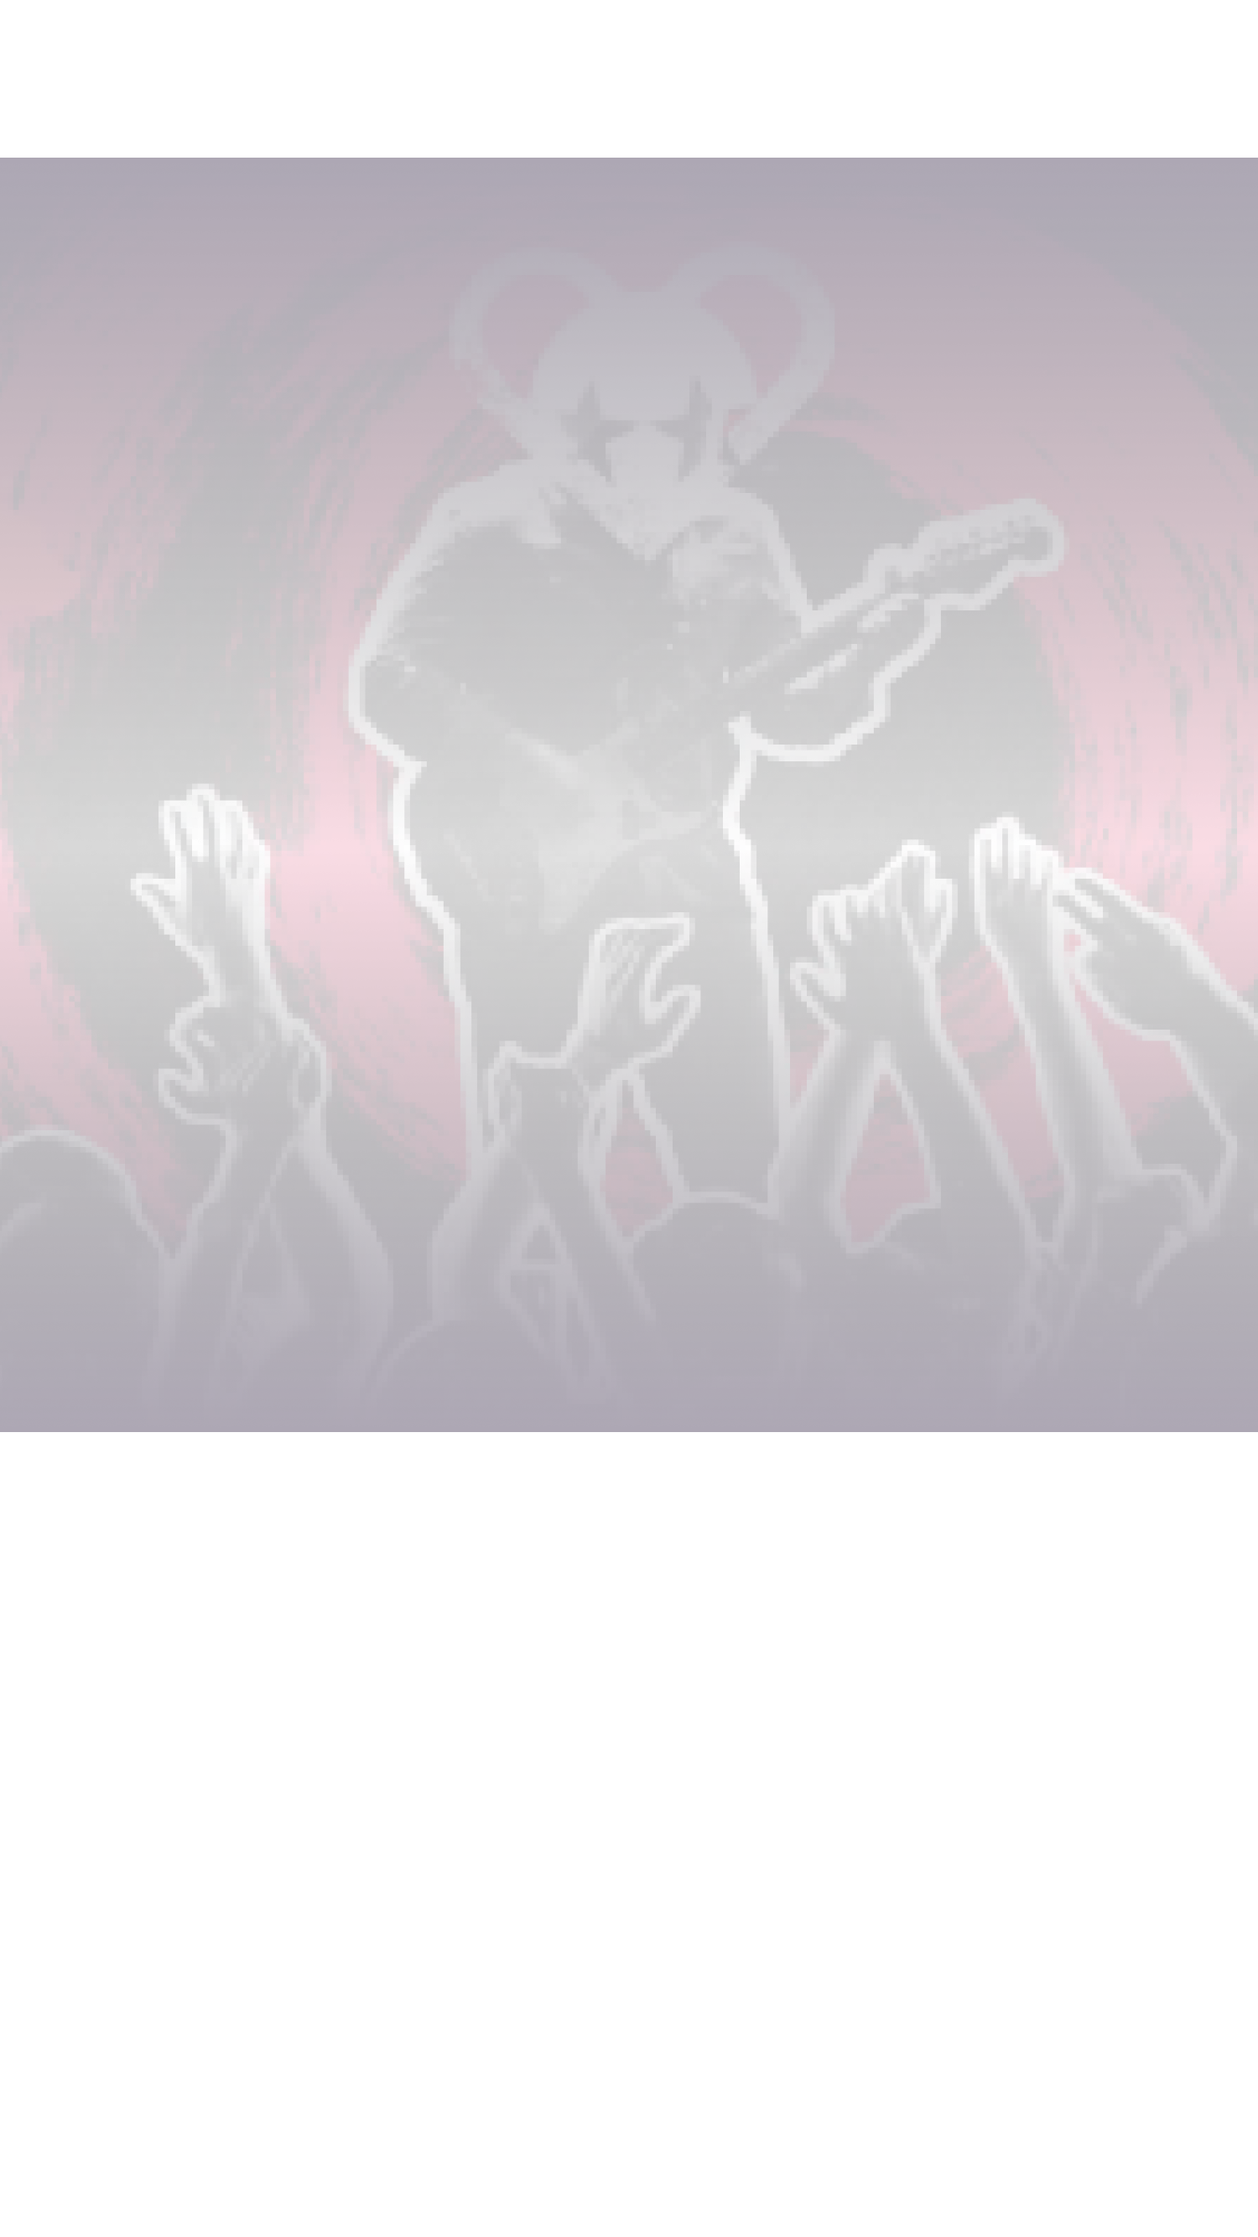
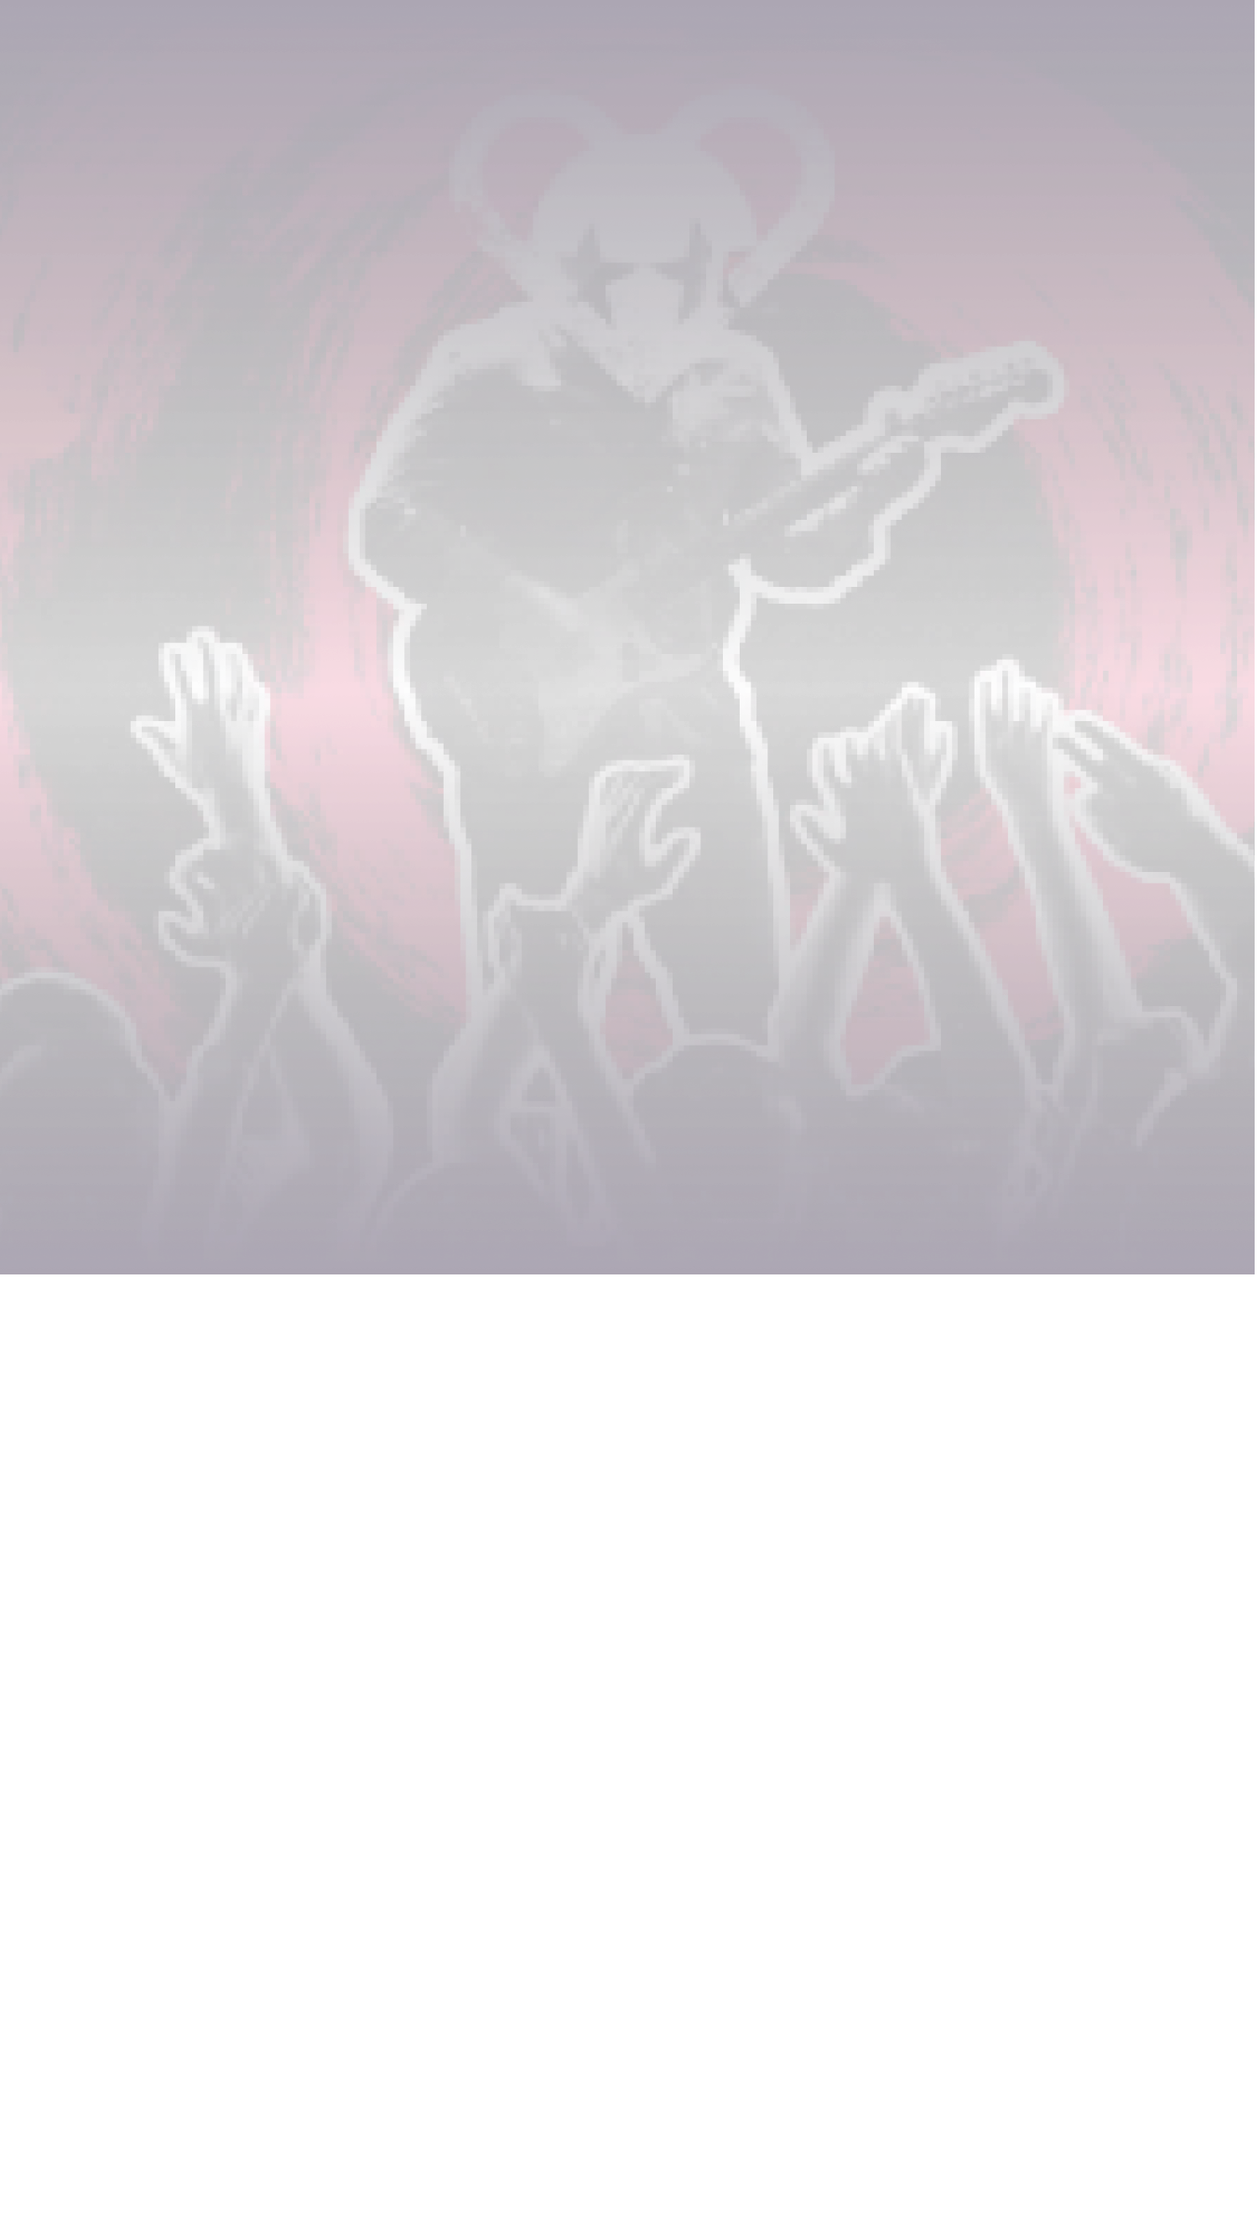
fixes

diff --git a/lib/views/pages/start/create_user_page.dart b/lib/views/pages/start/create_user_page.dart
@@ -39,6 +39,7 @@ class CreateUserPageState extends State<CreateUserPage> {
   FocusNode passwordNode = FocusNode();
   FocusNode passwordConfirmNode = FocusNode();
   FocusNode userNameNode = FocusNode();
+  FocusNode codeNode = FocusNode();
 
   String email;
   String password;
@@ -177,7 +178,7 @@ class CreateUserPageState extends State<CreateUserPage> {
               ),
               image: DecorationImage(
                 image: AssetImage('assets/images/start/signup_bg.png'),
-                fit: BoxFit.cover,
+                fit: BoxFit.fitHeight,
               )
             ),  
             child: Container(
@@ -223,8 +224,8 @@ class CreateUserPageState extends State<CreateUserPage> {
                         Container(
                           alignment: Alignment.topCenter,
                           child: Container(
-                            width: 140.0,
-                            height: 140.0, 
+                            width: 120.0,
+                            height: 120.0, 
                             decoration: BoxDecoration(
                               shape: BoxShape.circle,
                               image: DecorationImage(
@@ -235,9 +236,9 @@ class CreateUserPageState extends State<CreateUserPage> {
                           ),
                         ),
                         Container(
-                          height: 140.0,
+                          height: 120.0,
                           alignment: Alignment.bottomCenter,
-                          margin: EdgeInsets.only(left: 100.0),
+                          margin: EdgeInsets.only(left: 85.0),
                           child: IconButton(
                             onPressed: onImageSelect,
                             icon: Container(
@@ -268,7 +269,7 @@ class CreateUserPageState extends State<CreateUserPage> {
                               ),
                               decoration: InputDecoration(
                                 hintStyle: TextStyle(
-                                  color: Colors.white.withOpacity(0.5),
+                                  color: AppColors.orangeText,
                                   fontSize: 18.0,
                                   fontWeight: FontWeight.w500
                                 ),
@@ -302,7 +303,7 @@ class CreateUserPageState extends State<CreateUserPage> {
                               ),
                               decoration: InputDecoration(
                                 hintStyle: TextStyle(
-                                  color: Colors.white.withOpacity(0.5),
+                                  color: AppColors.orangeText,
                                   fontSize: 18.0,
                                   fontWeight: FontWeight.w500
                                 ),
@@ -333,7 +334,7 @@ class CreateUserPageState extends State<CreateUserPage> {
                               ),
                               decoration: InputDecoration(
                                 hintStyle: TextStyle(
-                                  color: Colors.white.withOpacity(0.5),
+                                  color: AppColors.orangeText,
                                   fontSize: 18.0,
                                   fontWeight: FontWeight.w500
                                 ),
@@ -363,7 +364,7 @@ class CreateUserPageState extends State<CreateUserPage> {
                               ),
                               decoration: InputDecoration(
                                 hintStyle: TextStyle(
-                                  color: Colors.white.withOpacity(0.5),
+                                  color: AppColors.orangeText,
                                   fontSize: 18.0,
                                   fontWeight: FontWeight.w500
                                 ),
@@ -393,7 +394,7 @@ class CreateUserPageState extends State<CreateUserPage> {
                               ),
                               decoration: InputDecoration(
                                 hintStyle: TextStyle(
-                                  color: Colors.white.withOpacity(0.5),
+                                  color: AppColors.orangeText,
                                   fontSize: 18.0,
                                   fontWeight: FontWeight.w500
                                 ),
@@ -423,7 +424,7 @@ class CreateUserPageState extends State<CreateUserPage> {
                               ),
                               decoration: InputDecoration(
                                 hintStyle: TextStyle(
-                                  color: Colors.white.withOpacity(0.5),
+                                  color: AppColors.orangeText,
                                   fontSize: 18.0,
                                   fontWeight: FontWeight.w500
                                 ),
@@ -440,14 +441,37 @@ class CreateUserPageState extends State<CreateUserPage> {
                               },
                               validator: validateName,
                             ),
-                            Padding(padding: EdgeInsets.only(top: 40.0)),
+                            Padding(padding: EdgeInsets.only(top: 15.0)),
+                            TextFormField(
+                              focusNode: codeNode,
+                              style: TextStyle(
+                                color: Colors.white,
+                                fontSize: 18.0,
+                                fontWeight: FontWeight.w500
+                              ),
+                              decoration: InputDecoration(
+                                hintStyle: TextStyle(
+                                  color: Colors.white.withOpacity(0.5),
+                                  fontSize: 18.0,
+                                  fontWeight: FontWeight.w500
+                                ),
+                                focusedBorder: UnderlineInputBorder(      
+                                  borderSide: BorderSide(color: Colors.white, width: 1.7),   
+                                ),
+                                enabledBorder: UnderlineInputBorder(      
+                                  borderSide: BorderSide(color: Colors.white.withOpacity(0.5)),   
+                                ),   
+                                hintText: Translations.referralCode
+                              ),
+                            ),
+                            Padding(padding: EdgeInsets.only(top: 30.0)),
                             Container(
                               child: Column(
                                 mainAxisAlignment: MainAxisAlignment.spaceBetween,
                                 children: <Widget>[
                                   Container(
                                     height: 50.0,
-                                    child: MainButton(Translations.continuew.toUpperCase(),
+                                    child: MainButton(Translations.createAccount.toUpperCase(),
                                       onTap: onContinue
                                     )
                                   ),

diff --git a/lib/views/pages/start/forgot_password_page.dart b/lib/views/pages/start/forgot_password_page.dart
@@ -6,6 +6,8 @@ import 'check_email_page.dart';
 import '../../routes/default_page_route.dart';
 import '../../widgets/main_button.dart';
 
+import '../../../helpers/storage/data_provider.dart';
+
 import '../../../resources/app_colors.dart';
 import '../../../resources/translations.dart';
 
@@ -16,6 +18,9 @@ class ForgotPasswordPage extends StatefulWidget {
 }
 
 class ForgotPasswordPageState extends State<ForgotPasswordPage> {
+  GlobalKey<FormState> formKey = GlobalKey<FormState>();
+
+  String email;
 
   @override
   void initState() {    
@@ -90,6 +95,7 @@ class ForgotPasswordPageState extends State<ForgotPasswordPage> {
                       )
                     ),
                     Form(
+                      key: formKey,
                       child: Container(
                         margin: EdgeInsets.only(left: 30.0, right: 30.0, top: 50.0),
                         child: Column(
@@ -124,8 +130,13 @@ class ForgotPasswordPageState extends State<ForgotPasswordPage> {
                                 enabledBorder: UnderlineInputBorder(      
                                   borderSide: BorderSide(color: Colors.white.withOpacity(0.5)),   
                                 ),   
-                                hintText: Translations.email
+                                hintText: Translations.email,
                               ),
+                              onSaved: (value){
+                                setState(() {
+                                  email = value;                                  
+                                });
+                              },
                             ),   
                             Container(
                               margin: EdgeInsets.only(top: 70.0),
@@ -136,6 +147,8 @@ class ForgotPasswordPageState extends State<ForgotPasswordPage> {
                                     height: 50.0,
                                     child: MainButton(Translations.restore.toUpperCase(),
                                       onTap: (){
+                                        formKey.currentState.save();
+                                        DataProvider.remindPassword(email);
                                         Navigator.push(
                                           this.context,
                                           DefaultPageRoute(builder: (context) => CheckEmailPage()),

diff --git a/lib/resources/translations.dart b/lib/resources/translations.dart
@@ -13,7 +13,7 @@ class Translations {
       'discoverMusic': 'DISCOVER MUSIC\n SHARE SHOWS\n GET REWARDS',
       'login': 'Login',
       'signUp': 'Sign Up',
-      'continueAsGuest': 'Continue as guest',
+      'continueAsGuest': 'Continue as Guest',
       'loginWith': 'Login with',
       'mouse': 'Mouse',
       'search': 'Search',
@@ -38,6 +38,7 @@ class Translations {
       'pleaseTryAgain': 'Please, try again later',
       'unauthorized': 'Unauthorized',
       'ok': 'OK',
+      'referralCode': 'Referral Code',
       'wrongUsernameOrPass': 'Wrong username or password',
       'wrongEmailFormat': 'Wrong email format',
       'wrongPassSize': 'Enter more than 6 symbols',
@@ -188,6 +189,7 @@ class Translations {
       'textUSD': 'Dollar (\$)',
       'textRUB': 'Ruble (₽)',
       'textEUR': 'Euro (€)',
+      'createAccount': 'Create Account',
 
       'emailUpdated': 'Email successfully updated',
       'changeEmail': 'Change email',
@@ -534,6 +536,8 @@ class Translations {
       'textUSD': 'Доллары (\$)',
       'textRUB': 'Рубли (₽)',
       'textEUR': 'Евро (€)',
+      'createAccount': 'Регистрация',
+      'referralCode': 'Реферальный Код',
 
       'emailUpdated': 'Почта успешно изменена',
       'changeEmail': 'Старый email',
@@ -722,6 +726,7 @@ class Translations {
   static String get checkEmail => words[locale]['checkEmail'];
   static String get weSentInstruction => words[locale]['weSentInstruction'];
   static String get continuew => words[locale]['continue'];
+  static String get createAccount => words[locale]['createAccount'];
   static String get profile => words[locale]['profile'];
   static String get shows => words[locale]['shows'];
   static String get emptyUsername => words[locale]['emptyUsername'];
@@ -929,6 +934,7 @@ class Translations {
   static String get pleaseSelectFeedback => words[locale]['pleaseSelectFeedback'];
   static String get pleaseRate => words[locale]['pleaseRate'];
   static String get reset => words[locale]['reset'];
+  static String get referralCode => words[locale]['referralCode'];
 
   static String translateEnum(String word){
     if (words[locale].containsKey(word)){

diff --git a/lib/views/pages/main/shows/show_page.dart b/lib/views/pages/main/shows/show_page.dart
@@ -113,6 +113,26 @@ class ShowPageState extends State<ShowPage> with SingleTickerProviderStateMixin 
       );
     }
   }
+  
+  String formatAddress(String address) {
+    try {
+      var tokens = address.split(',');
+      var cnt = tokens.length - 1;
+      if (cnt == 4) {
+        return tokens[cnt].trim() + '\n' + 
+             tokens[cnt - 1].trim() + ', ' + tokens[cnt - 2].trim() + ', ' + tokens[0].trim() + '\n' +
+             tokens[1].trim();
+      } else if (cnt == 3) {
+        return tokens[cnt].trim() + '\n' + 
+             tokens[cnt - 1].trim() + ', ' + tokens[0].trim() + '\n' +
+             tokens[1].trim();
+      } else {
+        return address;
+      }
+    } catch (ex){
+      return address;
+    }
+  }
 
   void onAddComment(){
     if (comment != null && comment.isNotEmpty){
@@ -868,7 +888,7 @@ class ShowPageState extends State<ShowPage> with SingleTickerProviderStateMixin 
                               Container(
                                 width: MediaQuery.of(context).size.width * 0.8,
                                 padding: EdgeInsets.only(left: 15.0),
-                                child: Text(event?.venue?.displayName?.toUpperCase() ?? '',
+                                child: Text(event?.venue?.displayName?.toUpperCase() ?? 'Private Residence',
                                   style: TextStyle(
                                     color: Colors.white,
                                     fontFamily: 'Avenir-Black', 
@@ -881,7 +901,7 @@ class ShowPageState extends State<ShowPage> with SingleTickerProviderStateMixin 
                           Container(
                             width: MediaQuery.of(context).size.width * 0.8,
                             padding: EdgeInsets.only(left: 35.0, top: 5.0),
-                            child: Text(event.venue.address ?? '',
+                            child: Text(formatAddress(event.venue.address) ?? '',
                               style: TextStyle(
                                 height: 16.0 / 14.0,
                                 fontSize: 14.0,

diff --git a/lib/views/pages/start/start_page.dart b/lib/views/pages/start/start_page.dart
@@ -1,3 +1,5 @@
+import 'dart:async';
+
 import 'package:flutter/material.dart';
 import 'package:transparent_image/transparent_image.dart';  
 
@@ -25,12 +27,26 @@ class StartPageState extends State<StartPage> with SingleTickerProviderStateMixi
   List <String> texts = [Translations.campaingToBring.toUpperCase(), Translations.watchLiveShows.toUpperCase(), Translations.discoverMusic.toUpperCase()];
 
   TabController tabController;
+  Timer timer;
 
   @override
   void initState() {    
     super.initState();
     
     tabController = TabController(vsync: this, length: 3);
+    
+    timer = Timer.periodic(Duration(seconds: 3), (t){
+      tabController.index = (tabController.index + 1) % 3;
+    });
+  }
+
+  @override
+  void dispose(){
+    super.dispose();
+    
+    if (timer != null){
+      timer.cancel();
+    }
   }
 
   @override

diff --git a/lib/helpers/api/main_api.dart b/lib/helpers/api/main_api.dart
@@ -48,6 +48,7 @@ class MainAPI {
   static const String feedbacks = '/feedbacks';
   static const String questions = '/questions';
   static const String twitter = '/twitter';
+  static const String forgotPassword = '/forgot_password';
 
   static String token;
   static int accountId;
@@ -196,6 +197,16 @@ class MainAPI {
     if (res.statusCode == HttpStatus.created){
       return User.fromJson(json.decode(res.body));
     } 
+  }
+
+   static Future remindPassword(String email) async {
+    var res = await http.post(url + auth + forgotPassword, 
+      body: json.encode({'email': email}),
+      headers: {
+        'Content-type' : 'application/json', 
+      }
+    );    
+    var t = 0;
   }
 
   static Future<User> updateUser(User user) async {

diff --git a/lib/main.dart b/lib/main.dart
@@ -1,4 +1,5 @@
 import 'package:flutter/material.dart';
+import 'package:flutter/services.dart';
 
 import 'views/pages/start/start_page.dart';
 import 'views/pages/main/main_page.dart';
@@ -32,6 +33,10 @@ class AppState extends State<App> {
         }
       );
     });
+    SystemChrome.setPreferredOrientations([
+      DeviceOrientation.portraitUp,
+      DeviceOrientation.portraitDown,
+    ]);
   }
 
   @override

diff --git a/lib/views/pages/start/widgets/bottom_login_widget.dart b/lib/views/pages/start/widgets/bottom_login_widget.dart
@@ -145,7 +145,7 @@ class BottomLoginWidget extends StatelessWidget {
                 DefaultPageRoute(builder: (context) => MainPage()),
               );
             },
-            child: Text(Translations.continueAsGuest.toUpperCase(),
+            child: Text(Translations.continueAsGuest,
               style: TextStyle(
                 color: Colors.white,
                 fontSize: 16.0,

diff --git a/lib/helpers/storage/data_provider.dart b/lib/helpers/storage/data_provider.dart
@@ -286,6 +286,11 @@ class DataProvider {
 
   //USERS
 
+  static Future remindPassword(String email) async {
+    await MainAPI.remindPassword(email);
+  }
+
+
   static Future<DataResult<User>> createUser(User user) async {
     var result = DataResult<User>();
 
